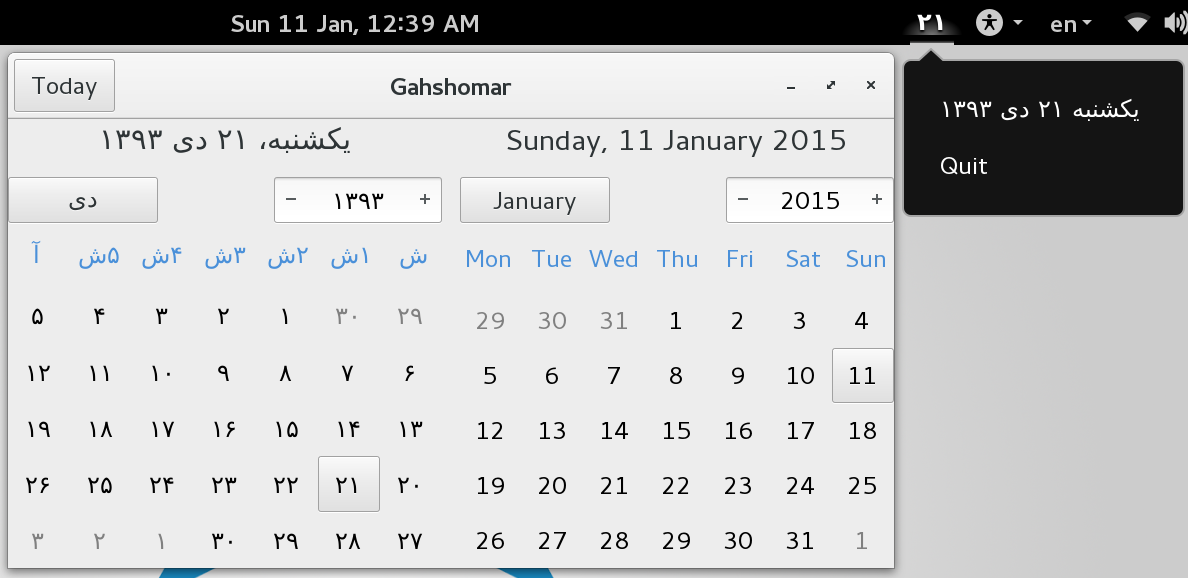
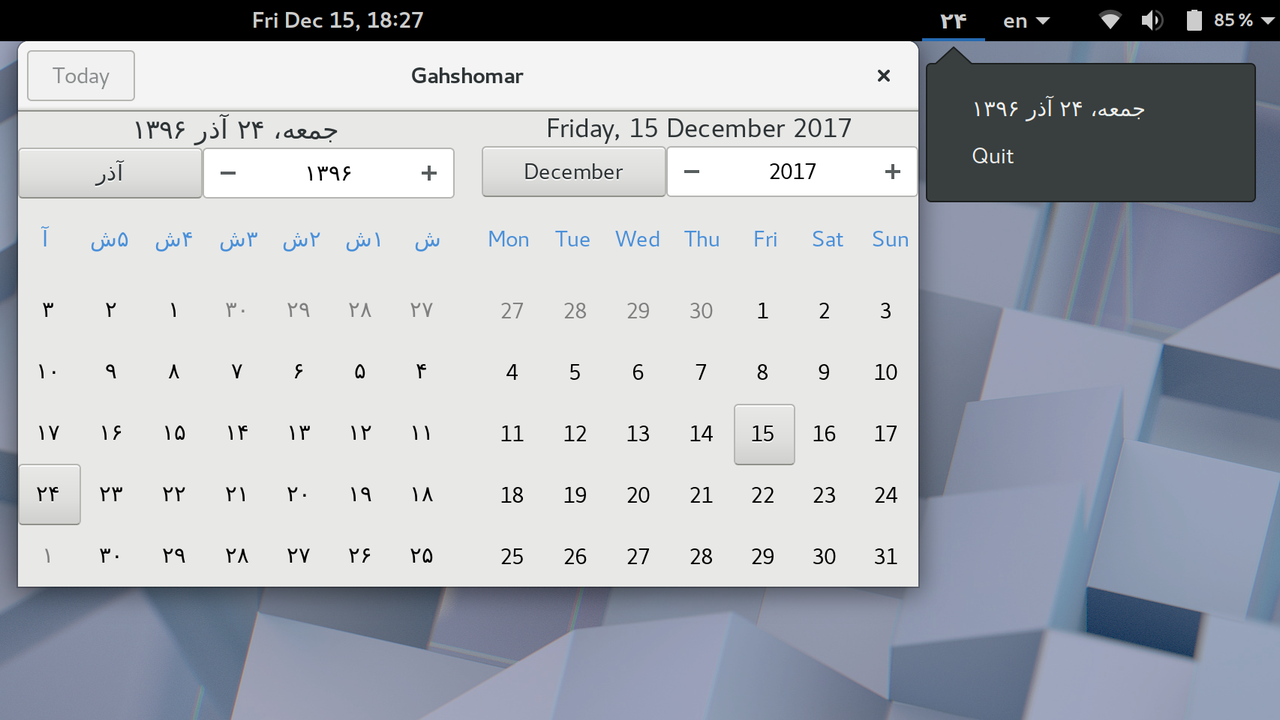
add help and statusicon

diff --git a/src/appindicator.py b/src/appindicator.py
@@ -1,68 +1,30 @@
+from .applet import Applet
 from gettext import gettext as _
 from gi.repository import Gtk, Gio, AppIndicator3
 import logging
 logger = logging.getLogger(__name__)
 
 
-class AppIndicator(object):
+class AppIndicator(Applet):
     """Gahshomar's appindicator"""
 
     def __init__(self, application, calendar, **kwargs):
-        super(AppIndicator, self).__init__(**kwargs)
-        self.application = application
-        self.calendar = calendar
-
         # setup the AppIndicator
         self.ind = AppIndicator3.Indicator.new(
             "Gahshomar-indicator", 'org.gahshomar.Gahshomar-no-icon',
             AppIndicator3.IndicatorCategory.APPLICATION_STATUS)
 
-        # hook status (active state) to settings. The settings object needs to
-        # be kept around.
-        self.settings = Gio.Settings.new('org.gahshomar.Gahshomar')
-        self.settings.connect('changed::appindicator', self.should_activate)
-        # you need to read the key at least once after connecting to the signal
-        self.should_activate(self.settings, 'appindicator')
+        super().__init__(
+            'AppIndicator', 'appindicator', application, calendar, **kwargs)
 
-        self.menu_setup()
-
-        self.calendar.connect("notify::date", self.update)
-        self.calendar.connect("notify::date-format", self.update)
-        self.update(self.calendar)
-
-    def __del__(self):
-        self.ind.set_status(AppIndicator3.IndicatorStatus.PASSIVE)
-
-    def should_activate(self, settings, key):
-        appindicator = settings.get_boolean(key)
-        logger.debug("AppIndicator Enabled: %s", appindicator)
-        if appindicator:
-            self.ind.set_status(AppIndicator3.IndicatorStatus.ACTIVE)
-        else:
-            self.ind.set_status(AppIndicator3.IndicatorStatus.PASSIVE)
-
-    def menu_setup(self):
-        self.menu = Gtk.Menu()
-        self.menu.set_halign(Gtk.Align.CENTER)
-
-        self.today_item = Gtk.MenuItem(_('Today'))
-        self.today_item.connect("activate", self.activate)
-        self.today_item.show()
-
-        self.quit_item = Gtk.MenuItem(_('Quit'))
-        self.quit_item.connect("activate", self.quit)
-        self.quit_item.show()
-
-        self.menu.append(self.today_item)
-        self.menu.append(self.quit_item)
         self.ind.set_menu(self.menu)
 
+    def do_activate(self):
+        self.ind.set_status(AppIndicator3.IndicatorStatus.ACTIVE)
+
+    def do_deactivate(self):
+        self.ind.set_status(AppIndicator3.IndicatorStatus.PASSIVE)
+
     def update(self, calendar, *args):
-        self.today_item.set_label(calendar.full_date)
+        super().update(calendar, *args)
         self.ind.set_label(calendar.day_str, '29')
-
-    def activate(self, *args):
-        self.application.do_activate()
-
-    def quit(self, widget):
-        self.application.quit()

diff --git a/src/statusicon.py b/src/statusicon.py
@@ -1,0 +1,56 @@
+from .applet import Applet
+from gi.repository import Gtk
+import logging
+logger = logging.getLogger(__name__)
+
+
+class StatusIcon(Applet):
+    """Gahshomar's status icon"""
+
+    def __init__(self, application, calendar, **kwargs):
+        # setup the StatusIcon
+        self.statusicon = Gtk.StatusIcon(title='gahshomar',
+                                         has_tooltip=True, visible=True)
+        self.statusicon.connect('activate', self.activate)
+        self.statusicon.connect('popup-menu', self.right_click_event)
+
+        self.window = Gtk.OffscreenWindow(app_paintable=True)
+        self.window.screen = self.window.get_screen()
+        self.window.visual = self.window.screen.get_rgba_visual()
+        if self.window.visual is not None and \
+           self.window.screen.is_composited():
+            self.window.set_visual(self.window.visual)
+        self.day_label = Gtk.Label('00')
+        self.window.add(self.day_label)
+        self.window.connect("damage-event", self.draw_complete_event)
+        self.window.connect('draw', self.draw)
+        self.window.show_all()
+
+        super().__init__(
+            'StatusIcon', 'statusicon', application, calendar, **kwargs)
+
+    def do_activate(self):
+        self.statusicon.set_visible(True)
+
+    def do_deactivate(self):
+        self.statusicon.set_visible(False)
+
+    def update(self, calendar, *args):
+        super().update(calendar, *args)
+        date_formatted = self.calendar.full_date
+        self.statusicon.set_tooltip_text(date_formatted)
+        day = '<span fgcolor="#bebebe">{}</span>'.format(self.calendar.day_str)
+        self.day_label.set_markup(day)
+
+    def draw_complete_event(self, window, event):
+        self.statusicon.set_from_pixbuf(window.get_pixbuf())
+
+    def right_click_event(self, statusicon, button, activate_time):
+        self.menu.popup(None, None, None, None, button, activate_time)
+
+    def draw(self, widget, cr, userdata=None):
+        cr.set_source_rgba(1, 1, 1, 0)
+        cr.set_operator(1)
+        cr.paint()
+        cr.set_operator(2)
+        return False

diff --git a/src/applet.py b/src/applet.py
@@ -1,0 +1,65 @@
+from gettext import gettext as _
+from gi.repository import Gtk, Gio
+import logging
+logger = logging.getLogger(__name__)
+
+
+class Applet(object):
+    """Gahshomar's appindicator"""
+
+    def __init__(self, name, settings_key, application, calendar, **kwargs):
+        super().__init__(**kwargs)
+        self.name = name
+        self.settings_key = settings_key
+        self.application = application
+        self.calendar = calendar
+
+        # hook status (active state) to settings. The settings object needs to
+        # be kept around.
+        self.settings = Gio.Settings.new('org.gahshomar.Gahshomar')
+        self.settings.connect(
+            'changed::' + self.settings_key, self.should_activate)
+        # you need to read the key at least once after connecting to the signal
+        self.should_activate(self.settings, self.settings_key)
+
+        self.menu_setup()
+
+        self.calendar.connect("notify::date", self.update)
+        self.calendar.connect("notify::date-format", self.update)
+        self.update(self.calendar)
+
+    def __del__(self):
+        self.do_deactivate()
+
+    def should_activate(self, settings, key):
+        applet = settings.get_boolean(key)
+        logger.debug("%s enabled: %s", self.name, applet)
+        if applet:
+            self.do_activate()
+        else:
+            self.do_deactivate()
+
+    def menu_setup(self):
+        self.menu = Gtk.Menu()
+        self.menu.set_halign(Gtk.Align.CENTER)
+
+        self.today_item = Gtk.MenuItem(_('Today'))
+        self.today_item.connect("activate", self.activate)
+        self.today_item.show()
+
+        self.quit_item = Gtk.MenuItem(_('Quit'))
+        self.quit_item.connect("activate", self.quit)
+        self.quit_item.show()
+
+        self.menu.append(self.today_item)
+        self.menu.append(self.quit_item)
+        self.menu.show_all()
+
+    def update(self, calendar, *args):
+        self.today_item.set_label(calendar.full_date)
+
+    def activate(self, *args):
+        self.application.do_activate()
+
+    def quit(self, widget):
+        self.application.quit()

diff --git a/src/preferences.py b/src/preferences.py
@@ -12,6 +12,7 @@ class GahshomarPreferences(Gtk.Dialog):
 
     afghan_month_switch = GtkTemplate.Child()
     appindicator_switch = GtkTemplate.Child()
+    statusicon_switch = GtkTemplate.Child()
 
     def __init__(self, **kwargs):
         super().__init__(**kwargs)
@@ -25,4 +26,9 @@ class GahshomarPreferences(Gtk.Dialog):
         # bind the appindicator setting to its switch
         self.settings = Gio.Settings.new('org.gahshomar.Gahshomar')
         self.settings.bind("appindicator", self.appindicator_switch, "active",
+                           Gio.SettingsBindFlags.DEFAULT)
+
+        # bind the statusicon setting to its switch
+        self.settings = Gio.Settings.new('org.gahshomar.Gahshomar')
+        self.settings.bind("statusicon", self.statusicon_switch, "active",
                            Gio.SettingsBindFlags.DEFAULT)

diff --git a/src/main.py b/src/main.py
@@ -13,6 +13,7 @@ from .preferences import GahshomarPreferences
 from .api import GahshomarApi
 from .calendar import TODAY_PERSIAN
 from .appindicator import AppIndicator
+from .statusicon import StatusIcon
 
 
 class Application(Gtk.Application):
@@ -48,8 +49,11 @@ class Application(Gtk.Application):
             '/org/gahshomar/Gahshomar/app-menu.ui')
         self.set_app_menu(builder.get_object("app-menu"))
 
-        # setup the appIndicator
+        # setup the AppIndicator
         self.ind = AppIndicator(self, TODAY_PERSIAN)
+
+        # setup the StatusIcon
+        self.statusicon = StatusIcon(self, TODAY_PERSIAN)
 
         # increase ref count so the app does not go away. This enables the app
         # to run as a service. We do this because we provide a d-bus api.

diff --git a/README.md b/README.md
@@ -1,0 +1,1 @@
+README
